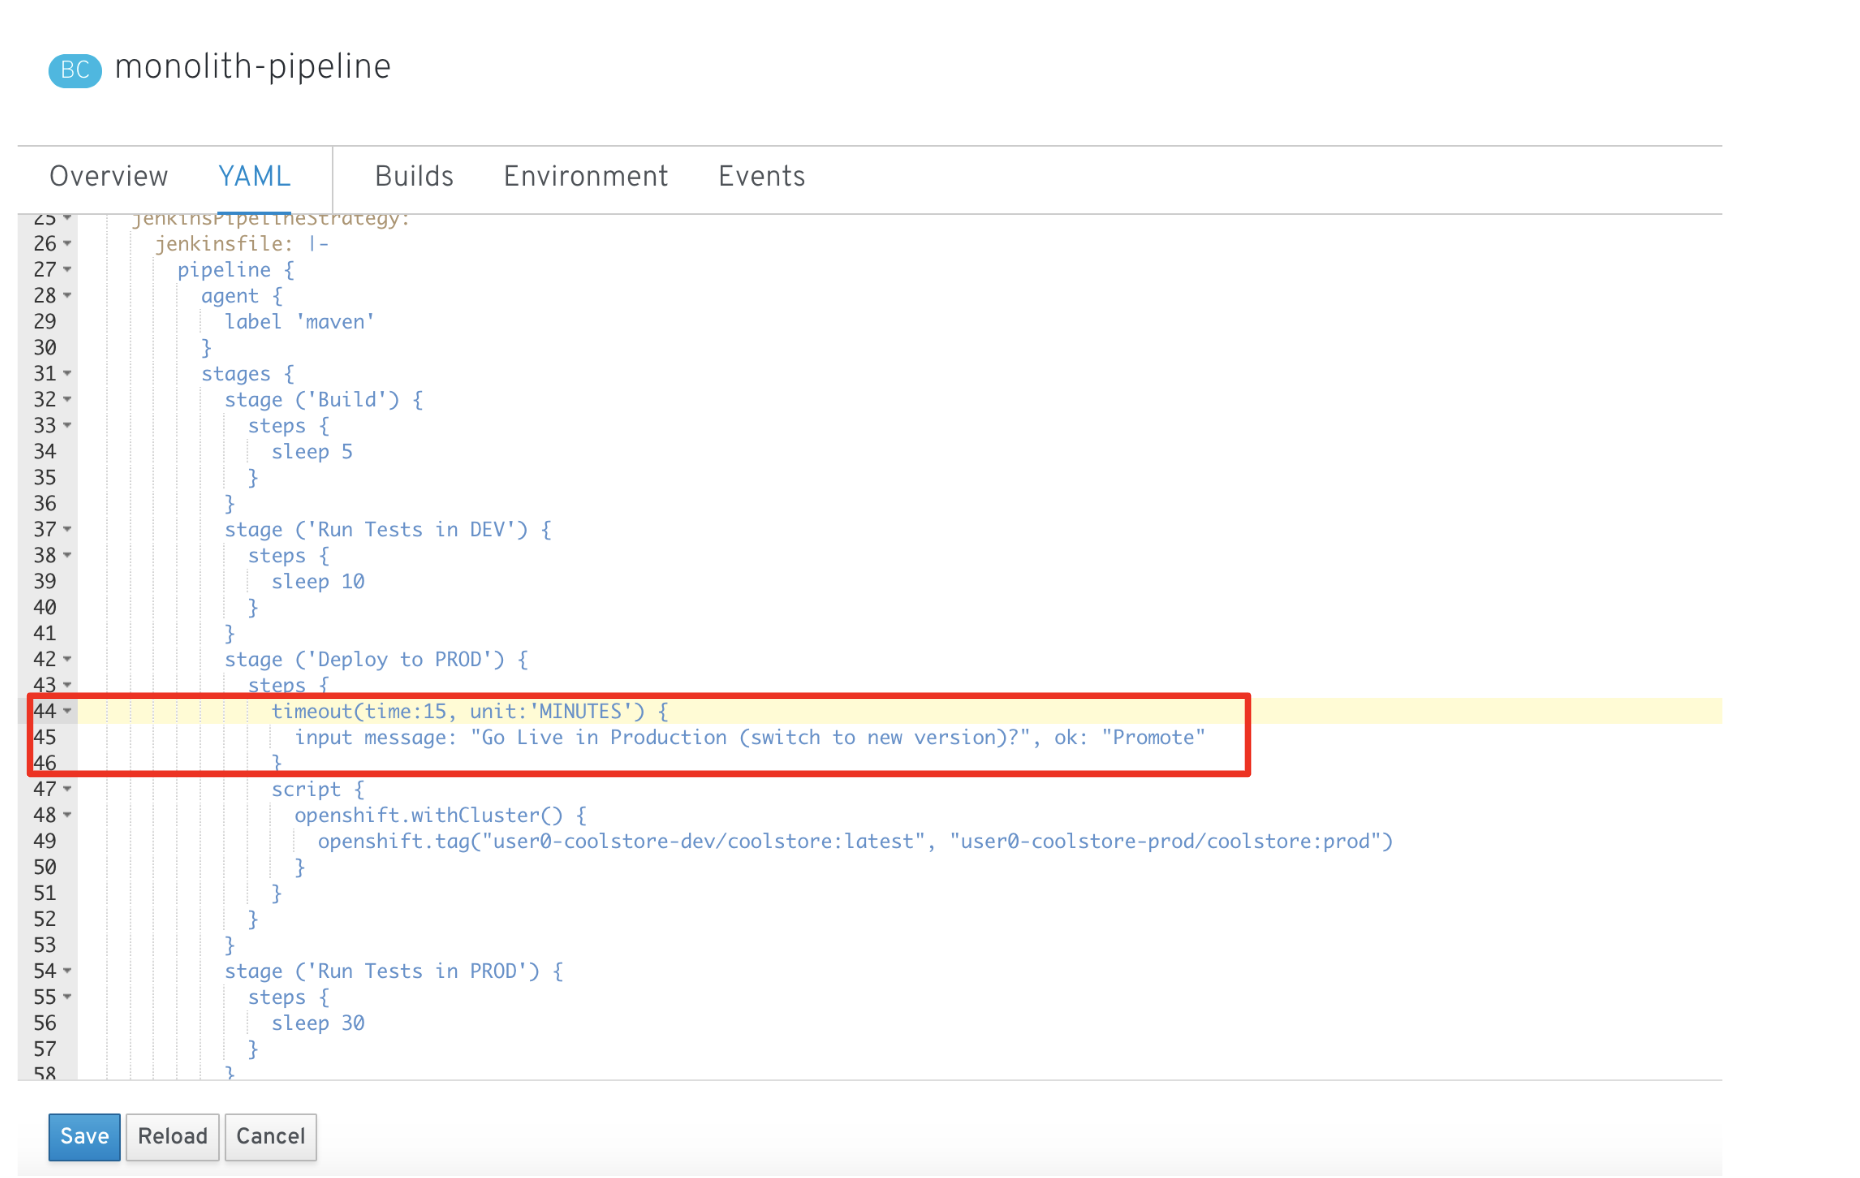
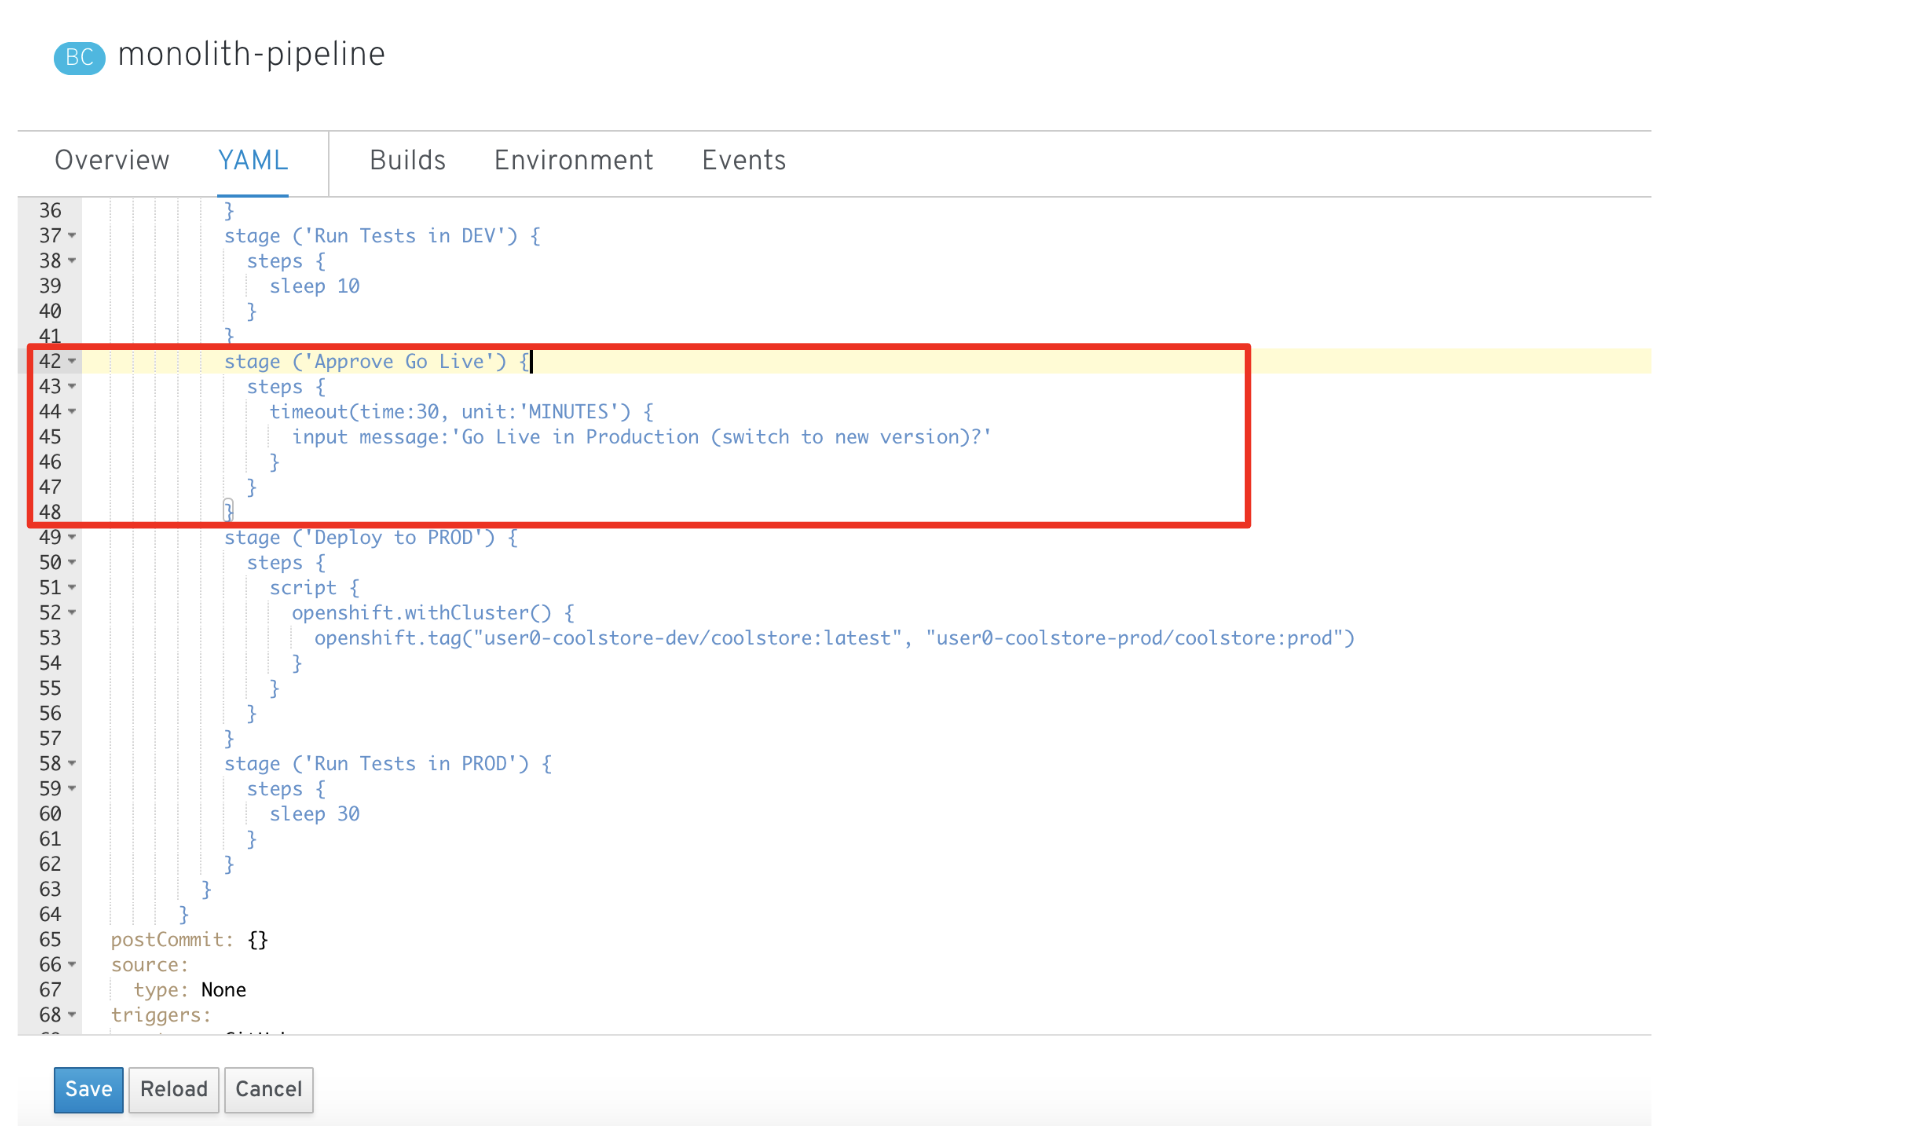
update CI contents for OCP4

diff --git a/implementing-cd.md b/implementing-cd.md
@@ -262,13 +262,17 @@ Go back to `Builds > Build Configs > monolith-pipeline` then click on `Edit Buil
 
 ![Prod]({% image_path pipe-edit.png %})
 
-Click on `YAML` tab and add a new step to the pipeline, just before the `Deploy to PROD` step:
+Click on `YAML` tab and add `a new stage` to the pipeline, just before the `Deploy to PROD` stage:
 
 > **NOTE**: You will need to copy and paste the below code into the right place as shown in the below image.
 
 ~~~groovy
-timeout(time:15, unit:'MINUTES') {
-  input message: "Go Live in Production (switch to new version)?", ok: "Promote"
+stage ('Approve Go Live') {
+  steps {
+    timeout(time:30, unit:'MINUTES') {
+      input message:'Go Live in Production (switch to new version)?'
+    }
+  }
 }
 ~~~
 
@@ -334,7 +338,7 @@ Invoke the pipeline once more by navigating to `Builds > Build Configs > monolit
 
 The same pipeline progress will be shown, however before deploying to prod, you will see a prompt in the pipeline:
 
-![Prod]({% image_path pipe-prompt.png %}){:width="800px"}
+![Prod]({% image_path pipe-prompt.png %})
 
 Click on the link for `Input Required`. This will open a new tab and direct you to Jenkins itself, where you can login with
 the same credentials as OpenShift:
@@ -344,7 +348,9 @@ the same credentials as OpenShift:
 
 Accept the browser certificate warning and the Jenkins/OpenShift permissions, and then you'll find yourself at the approval prompt:
 
-![Prod]({% image_path pipe-jenkins-prompt.png %}){:width="800px"}
+Click on `Console Output` on left menu then click on `Proceed`.
+
+![Prod]({% image_path pipe-jenkins-prompt.png %})
 
 ####8. Approve the change to go live
 
